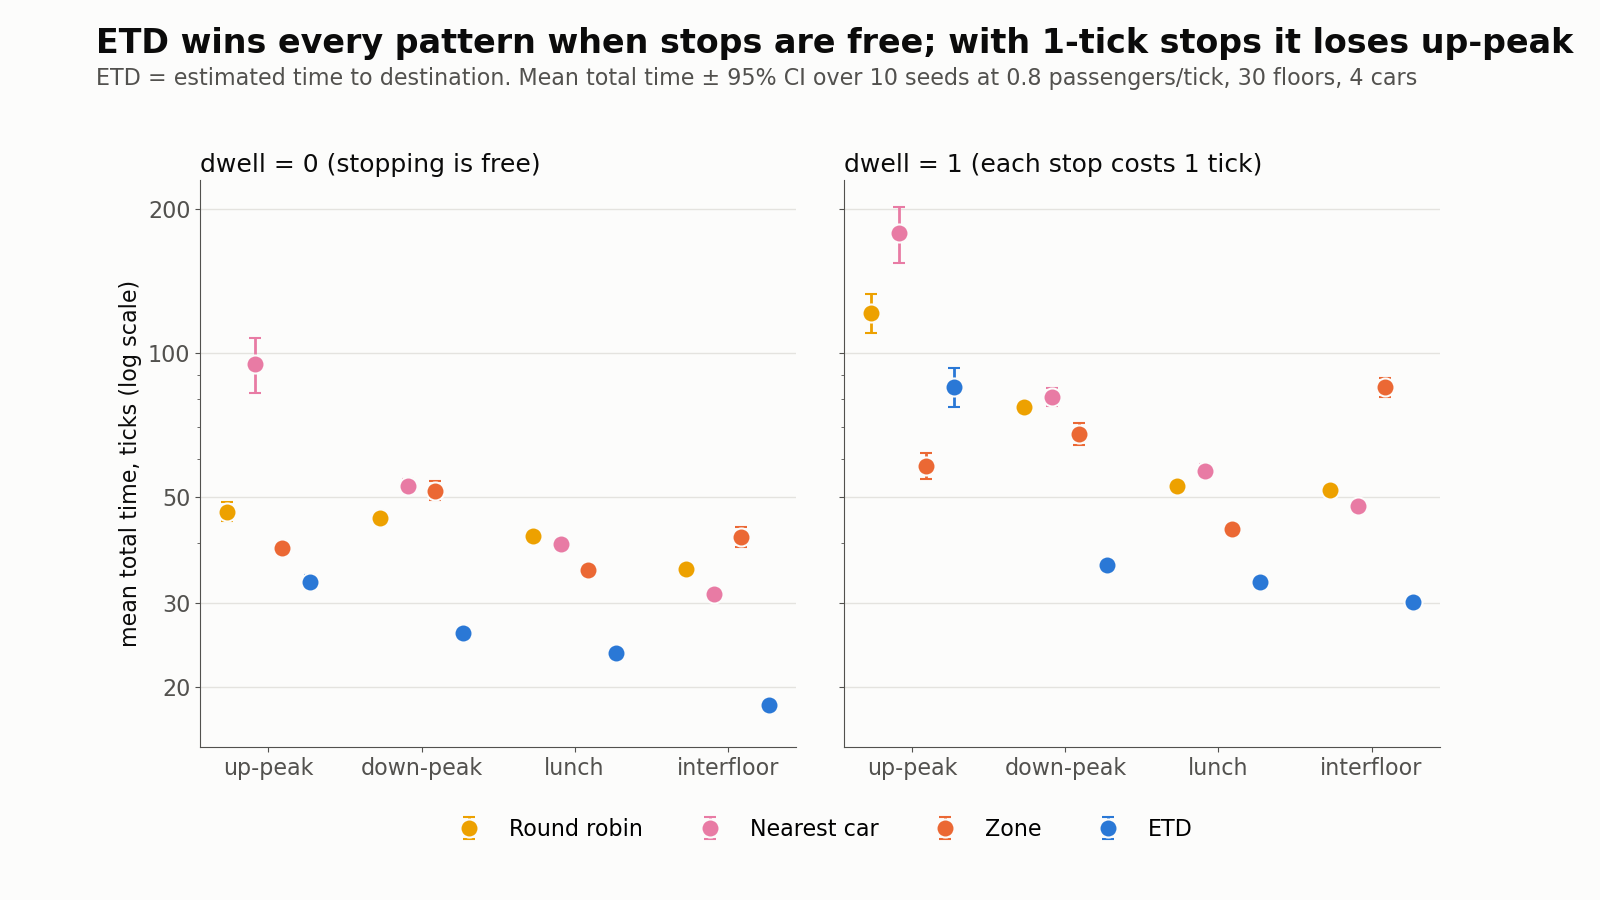
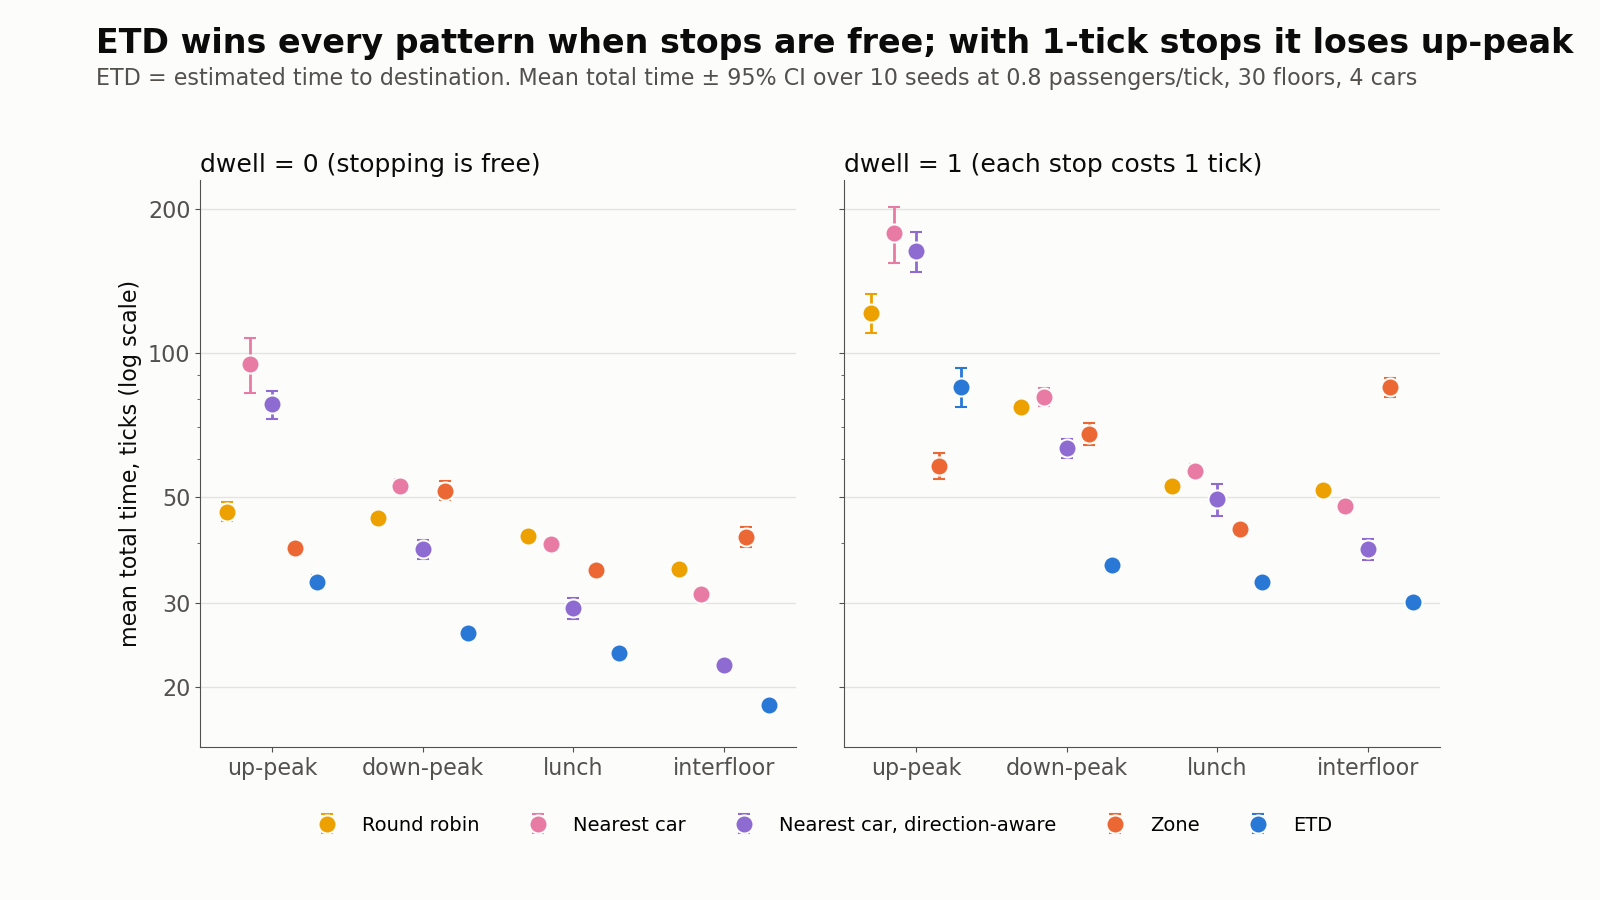
Add a direction-aware nearest-car baseline

diff --git a/elevator_sim/dispatch.py b/elevator_sim/dispatch.py
@@ -9,7 +9,7 @@ from collections.abc import Callable, Sequence
 from dataclasses import replace
 from typing import Protocol
 
-from .models import LOBBY, Car, Passenger, Request
+from .models import LOBBY, Car, Direction, Passenger, Request
 from .rules import forecast
 
 Cost = Callable[[int], float]  # a passenger's total time -> penalty
@@ -42,6 +42,27 @@ class NearestCarDispatcher:
 
     def assign(self, request: Request, cars: Sequence[Car], now: int) -> int:
         return min(cars, key=lambda c: (abs(c.floor - request.source), c.id)).id
+
+
+class DirectionalDispatcher:
+    """Baseline: nearest car counting its direction, as classic collective control does.
+
+    A car already heading past the pickup, the right way, is as far as the
+    floors between them. Otherwise it must first finish its sweep: travel to
+    its farthest stop in its current direction, then come back.
+    """
+
+    def assign(self, request: Request, cars: Sequence[Car], now: int) -> int:
+        return min(cars, key=lambda c: (self.distance(c, request), c.id)).id
+
+    @staticmethod
+    def distance(car: Car, request: Request) -> int:
+        ahead = (request.source - car.floor) * car.direction >= 0
+        if car.direction is Direction.IDLE or (ahead and request.direction == car.direction):
+            return abs(request.source - car.floor)
+        stops = [p.dest for p in car.riders] + [p.source for p in car.waiting]
+        turn = max(stops, key=lambda f: (f - car.floor) * car.direction, default=car.floor)
+        return abs(turn - car.floor) + abs(turn - request.source)
 
 
 class ZoneDispatcher:
@@ -88,10 +109,10 @@ class EtdDispatcher:
 
 
 def make_dispatcher(name: str, floors: int) -> Dispatcher:
-    """'etd', 'nearest', 'zone', 'round-robin', or 'etd-p<k>' (ETD with cost total_time**k)."""
+    """'etd', 'nearest', 'directional', 'zone', 'round-robin', or 'etd-p<k>' (ETD with cost total_time**k)."""
     if name.startswith("etd-p"):
         return EtdDispatcher(power_cost(float(name.removeprefix("etd-p"))))
-    makers = {"etd": EtdDispatcher, "nearest": NearestCarDispatcher,
+    makers = {"etd": EtdDispatcher, "nearest": NearestCarDispatcher, "directional": DirectionalDispatcher,
               "zone": lambda: ZoneDispatcher(floors), "round-robin": RoundRobinDispatcher}
     if name not in makers:
         raise ValueError(f"unknown dispatcher {name!r}; choose from {list(makers)} or etd-p<k>")

diff --git a/tests/test_dispatch.py b/tests/test_dispatch.py
@@ -6,11 +6,12 @@ import pytest
 
 from elevator_sim import Car, Config, Direction, Passenger, Request, Simulation
 from elevator_sim.csv_io import load_requests
-from elevator_sim.dispatch import EtdDispatcher, NearestCarDispatcher, RoundRobinDispatcher, make_dispatcher
+from elevator_sim.dispatch import (DirectionalDispatcher, EtdDispatcher, NearestCarDispatcher, RoundRobinDispatcher,
+                                   make_dispatcher)
 from helpers import random_requests
 
 FLOORS = 20
-DISPATCHERS = ("round-robin", "nearest", "zone", "etd", "etd-p1")
+DISPATCHERS = ("round-robin", "nearest", "directional", "zone", "etd", "etd-p1")
 
 
 def run(requests, dispatcher, floors=FLOORS, cars=3, capacity=6):
@@ -44,6 +45,24 @@ def test_etd_prefers_far_empty_car_over_near_busy_one():
     request = Request(10, "new", 3, 1)
     assert NearestCarDispatcher().assign(request, [busy, empty], now=10) == 0
     assert EtdDispatcher().assign(request, [busy, empty], now=10) == 1
+
+
+def test_directional_skips_a_car_heading_away():
+    # Caller at floor 3 going down. Car 0 is at floor 5 but carrying riders up to 30,
+    # so it must reach 30 first: 25 + 27 = 52 floors. Car 1 is idle 17 floors away.
+    riders = [Passenger(Request(0, "r", 1, 30), car_id=0, board_time=0)]
+    busy = Car(0, capacity=8, floor=5, direction=Direction.UP, riders=riders)
+    idle = Car(1, capacity=8, floor=20)
+    request = Request(10, "new", 3, 1)
+    assert DirectionalDispatcher.distance(busy, request) == 52
+    assert DirectionalDispatcher().assign(request, [busy, idle], now=10) == 1
+
+
+def test_directional_picks_a_car_coming_its_way():
+    coming = Car(0, capacity=8, floor=2, direction=Direction.UP,
+                 riders=[Passenger(Request(0, "r", 1, 20), car_id=0, board_time=0)])
+    request = Request(10, "new", 6, 15)
+    assert DirectionalDispatcher.distance(coming, request) == 4
 
 
 def test_etd_does_not_mutate_cars():

diff --git a/elevator_sim/__main__.py b/elevator_sim/__main__.py
@@ -27,7 +27,7 @@ def main(argv: list[str] | None = None) -> None:
     ap.add_argument("--floors", type=int, required=True)
     ap.add_argument("--cars", type=int, default=3)
     ap.add_argument("--capacity", type=int, default=10)
-    ap.add_argument("--dispatcher", default="etd", help="etd (default), nearest, zone, round-robin, etd-p<k>")
+    ap.add_argument("--dispatcher", default="etd", help="etd (default), nearest, directional, zone, round-robin, etd-p<k>")
     ap.add_argument("--dwell", type=int, default=0, help="extra ticks per stop (default 0)")
     ap.add_argument("--express", type=parse_express, default={}, metavar="CARS:FLOORS",
                     help="e.g. 2,3:1,16-30 = cars 2 and 3 stop only at floor 1 and floors 16-30")

diff --git a/elevator_sim/benchmark.py b/elevator_sim/benchmark.py
@@ -39,7 +39,7 @@ class Experiment:
 
 BASE = {
     "algorithms": Experiment("Which dispatcher works best?",
-                             {"standard": STANDARD}, ("round-robin", "nearest", "zone", "etd")),
+                             {"standard": STANDARD}, ("round-robin", "nearest", "directional", "zone", "etd")),
     "fairness": Experiment("How does ETD's cost exponent trade average time against the worst case?",
                            {"standard": STANDARD}, ("etd-p1", "etd-p2", "etd-p4"), rates=(0.8,)),
     "express": Experiment("Do express cars (2 of 4 serve only the lobby and floors 16-30) help?",

diff --git a/results/algorithms_dwell1.md b/results/algorithms_dwell1.md
@@ -8,33 +8,41 @@ Which dispatcher works best?
 |---|---|---|---|---|---|---|---|---|---|---|
 | standard | up-peak | 0.4 | round-robin | 27.2 | 44.6 | ±0.6 | 77.6 | 93.8 | 1.5 | 3.08 |
 | standard | up-peak | 0.4 | nearest | 32.4 | 50.7 | ±2.7 | 107.9 | 171.6 | 9.6 | 3.51 |
+| standard | up-peak | 0.4 | directional | 16.7 | 35.3 | ±1.5 | 84.4 | 117.6 | 2.8 | 2.44 |
 | standard | up-peak | 0.4 | zone | 20.0 | 36.6 | ±0.7 | 76.8 | 95.4 | 1.2 | 2.53 |
 | standard | up-peak | 0.4 | etd | 12.1 | 30.2 | ±0.6 | 51.8 | 63.7 | 1.6 | 2.09 |
 | standard | up-peak | 0.8 | round-robin | 102.3 | 121.3 | ±11.5 | 230.9 | 285.4 | 99.9 | 8.44 |
 | standard | up-peak | 0.8 | nearest | 158.9 | 177.9 | ±23.8 | 494.8 | 604.1 | 151.6 | 12.38 |
+| standard | up-peak | 0.8 | directional | 144.3 | 163.3 | ±16.0 | 477.9 | 640.1 | 154.8 | 11.35 |
 | standard | up-peak | 0.8 | zone | 40.7 | 58.1 | ±3.5 | 157.9 | 224.5 | 14.7 | 4.03 |
 | standard | up-peak | 0.8 | etd | 66.1 | 84.9 | ±7.9 | 150.4 | 180.2 | 67.1 | 5.91 |
 | standard | down-peak | 0.4 | round-robin | 27.1 | 44.5 | ±0.4 | 79.0 | 95.5 | 0.7 | 3.08 |
 | standard | down-peak | 0.4 | nearest | 31.9 | 49.7 | ±3.2 | 118.0 | 232.9 | -0.5 | 3.44 |
+| standard | down-peak | 0.4 | directional | 14.5 | 32.0 | ±0.7 | 63.8 | 107.3 | 0.1 | 2.21 |
 | standard | down-peak | 0.4 | zone | 20.8 | 37.6 | ±0.5 | 78.2 | 100.1 | 1.5 | 2.60 |
 | standard | down-peak | 0.4 | etd | 12.8 | 29.7 | ±0.4 | 59.8 | 77.1 | 1.7 | 2.05 |
 | standard | down-peak | 0.8 | round-robin | 58.7 | 77.1 | ±1.9 | 174.2 | 281.7 | 15.5 | 5.36 |
 | standard | down-peak | 0.8 | nearest | 62.6 | 80.9 | ±3.5 | 214.1 | 355.5 | 3.7 | 5.62 |
+| standard | down-peak | 0.8 | directional | 44.9 | 63.2 | ±2.9 | 169.5 | 278.7 | 11.9 | 4.39 |
 | standard | down-peak | 0.8 | zone | 50.6 | 67.8 | ±3.7 | 223.2 | 361.9 | 19.4 | 4.70 |
 | standard | down-peak | 0.8 | etd | 18.1 | 36.0 | ±1.0 | 67.9 | 99.9 | -0.1 | 2.50 |
 | standard | lunch | 0.4 | round-robin | 28.0 | 44.8 | ±0.6 | 77.9 | 95.3 | -0.3 | 3.07 |
 | standard | lunch | 0.4 | nearest | 23.0 | 40.2 | ±1.0 | 84.4 | 104.0 | -0.2 | 2.76 |
+| standard | lunch | 0.4 | directional | 10.7 | 27.9 | ±0.7 | 56.5 | 88.6 | -0.1 | 1.91 |
 | standard | lunch | 0.4 | zone | 20.2 | 36.7 | ±0.4 | 76.5 | 94.9 | 0.4 | 2.52 |
 | standard | lunch | 0.4 | etd | 9.5 | 26.3 | ±0.6 | 47.7 | 68.3 | -0.4 | 1.80 |
 | standard | lunch | 0.8 | round-robin | 34.2 | 52.7 | ±0.6 | 90.6 | 129.4 | 0.4 | 3.61 |
 | standard | lunch | 0.8 | nearest | 37.9 | 56.7 | ±1.9 | 114.6 | 261.4 | -0.8 | 3.88 |
+| standard | lunch | 0.8 | directional | 30.6 | 49.5 | ±3.8 | 119.0 | 225.0 | -1.6 | 3.39 |
 | standard | lunch | 0.8 | zone | 25.5 | 42.9 | ±0.7 | 83.5 | 158.4 | 0.9 | 2.93 |
 | standard | lunch | 0.8 | etd | 14.9 | 33.2 | ±0.6 | 59.1 | 87.0 | 0.5 | 2.27 |
 | standard | interfloor | 0.4 | round-robin | 28.3 | 40.8 | ±0.8 | 73.2 | 91.6 | 0.8 | 4.07 |
 | standard | interfloor | 0.4 | nearest | 23.6 | 36.5 | ±0.7 | 80.4 | 104.0 | 1.2 | 3.65 |
+| standard | interfloor | 0.4 | directional | 12.5 | 25.3 | ±0.6 | 56.5 | 89.2 | -0.8 | 2.52 |
 | standard | interfloor | 0.4 | zone | 25.8 | 39.1 | ±1.2 | 73.8 | 110.0 | 1.3 | 3.90 |
 | standard | interfloor | 0.4 | etd | 11.3 | 23.7 | ±0.8 | 45.1 | 64.0 | -0.1 | 2.36 |
 | standard | interfloor | 0.8 | round-robin | 37.1 | 51.7 | ±0.7 | 91.6 | 114.3 | 1.8 | 5.15 |
 | standard | interfloor | 0.8 | nearest | 33.0 | 48.0 | ±1.0 | 101.8 | 180.7 | -0.4 | 4.78 |
+| standard | interfloor | 0.8 | directional | 23.8 | 38.9 | ±2.0 | 82.6 | 164.4 | 2.2 | 3.87 |
 | standard | interfloor | 0.8 | zone | 70.0 | 84.7 | ±3.8 | 248.3 | 402.7 | 36.1 | 8.44 |
 | standard | interfloor | 0.8 | etd | 16.0 | 30.1 | ±0.8 | 56.2 | 91.3 | 1.5 | 2.99 |

diff --git a/results/algorithms_dwell0.md b/results/algorithms_dwell0.md
@@ -8,33 +8,41 @@ Which dispatcher works best?
 |---|---|---|---|---|---|---|---|---|---|---|
 | standard | up-peak | 0.4 | round-robin | 24.3 | 38.7 | ±0.4 | 67.9 | 82.7 | 1.7 | 2.68 |
 | standard | up-peak | 0.4 | nearest | 25.7 | 40.2 | ±1.4 | 78.7 | 115.2 | 4.2 | 2.78 |
+| standard | up-peak | 0.4 | directional | 14.2 | 28.6 | ±0.9 | 61.0 | 92.2 | 2.2 | 1.98 |
 | standard | up-peak | 0.4 | zone | 18.0 | 32.5 | ±0.5 | 69.1 | 84.9 | 1.2 | 2.25 |
 | standard | up-peak | 0.4 | etd | 11.6 | 26.1 | ±0.5 | 45.5 | 56.0 | 1.2 | 1.80 |
 | standard | up-peak | 0.8 | round-robin | 32.2 | 46.6 | ±2.1 | 82.8 | 123.3 | 4.6 | 3.24 |
 | standard | up-peak | 0.8 | nearest | 80.5 | 94.9 | ±12.6 | 257.2 | 340.4 | 48.3 | 6.61 |
+| standard | up-peak | 0.8 | directional | 63.6 | 78.0 | ±5.3 | 212.8 | 289.9 | 44.0 | 5.42 |
 | standard | up-peak | 0.8 | zone | 24.6 | 39.0 | ±1.0 | 86.6 | 134.7 | 1.6 | 2.71 |
 | standard | up-peak | 0.8 | etd | 18.9 | 33.3 | ±1.0 | 54.7 | 71.2 | 2.9 | 2.31 |
 | standard | down-peak | 0.4 | round-robin | 23.8 | 38.3 | ±0.5 | 67.9 | 81.2 | -0.7 | 2.65 |
 | standard | down-peak | 0.4 | nearest | 23.8 | 38.2 | ±1.3 | 82.8 | 149.9 | -0.1 | 2.64 |
+| standard | down-peak | 0.4 | directional | 12.6 | 27.0 | ±0.5 | 55.4 | 74.7 | 0.3 | 1.87 |
 | standard | down-peak | 0.4 | zone | 18.4 | 32.9 | ±0.5 | 70.2 | 89.6 | 1.8 | 2.27 |
 | standard | down-peak | 0.4 | etd | 9.8 | 24.3 | ±0.5 | 51.9 | 65.7 | -0.2 | 1.68 |
 | standard | down-peak | 0.8 | round-robin | 30.8 | 45.2 | ±0.6 | 85.0 | 145.6 | 1.1 | 3.14 |
 | standard | down-peak | 0.8 | nearest | 38.4 | 52.8 | ±1.6 | 139.6 | 257.3 | -3.9 | 3.67 |
+| standard | down-peak | 0.8 | directional | 24.5 | 38.9 | ±1.9 | 101.1 | 192.3 | -2.2 | 2.70 |
 | standard | down-peak | 0.8 | zone | 37.1 | 51.5 | ±2.4 | 181.1 | 306.8 | 12.8 | 3.57 |
 | standard | down-peak | 0.8 | etd | 11.6 | 26.0 | ±0.5 | 52.1 | 77.5 | 0.4 | 1.80 |
 | standard | lunch | 0.4 | round-robin | 24.4 | 39.0 | ±0.7 | 68.8 | 82.6 | 0.0 | 2.67 |
 | standard | lunch | 0.4 | nearest | 20.0 | 34.6 | ±0.9 | 72.9 | 84.8 | -0.4 | 2.37 |
+| standard | lunch | 0.4 | directional | 8.8 | 23.4 | ±0.3 | 47.5 | 79.5 | 0.3 | 1.61 |
 | standard | lunch | 0.4 | zone | 18.0 | 32.6 | ±0.5 | 69.5 | 83.1 | 0.5 | 2.24 |
 | standard | lunch | 0.4 | etd | 6.9 | 21.5 | ±0.2 | 39.7 | 56.8 | -0.3 | 1.48 |
 | standard | lunch | 0.8 | round-robin | 26.9 | 41.5 | ±0.2 | 71.4 | 85.9 | 0.5 | 2.84 |
 | standard | lunch | 0.8 | nearest | 25.2 | 39.9 | ±0.7 | 77.4 | 126.8 | -1.2 | 2.73 |
+| standard | lunch | 0.8 | directional | 14.6 | 29.2 | ±1.5 | 66.2 | 130.1 | -0.8 | 2.00 |
 | standard | lunch | 0.8 | zone | 20.6 | 35.2 | ±0.6 | 71.6 | 102.9 | 0.2 | 2.41 |
 | standard | lunch | 0.8 | etd | 9.0 | 23.6 | ±0.6 | 43.4 | 63.7 | -0.5 | 1.62 |
 | standard | interfloor | 0.4 | round-robin | 22.5 | 32.5 | ±0.7 | 58.8 | 73.4 | 0.9 | 3.25 |
 | standard | interfloor | 0.4 | nearest | 17.1 | 27.1 | ±0.8 | 60.8 | 77.0 | -0.8 | 2.70 |
+| standard | interfloor | 0.4 | directional | 9.3 | 19.3 | ±0.6 | 43.9 | 68.7 | -0.5 | 1.93 |
 | standard | interfloor | 0.4 | zone | 20.3 | 30.3 | ±0.9 | 57.5 | 79.3 | -0.7 | 3.02 |
 | standard | interfloor | 0.4 | etd | 7.0 | 17.0 | ±0.4 | 33.6 | 50.5 | -0.2 | 1.70 |
 | standard | interfloor | 0.8 | round-robin | 25.3 | 35.4 | ±0.3 | 62.3 | 77.3 | 0.5 | 3.52 |
 | standard | interfloor | 0.8 | nearest | 21.2 | 31.3 | ±0.6 | 65.8 | 83.4 | -0.1 | 3.11 |
+| standard | interfloor | 0.8 | directional | 12.3 | 22.3 | ±0.5 | 50.5 | 75.3 | -0.2 | 2.22 |
 | standard | interfloor | 0.8 | zone | 31.2 | 41.3 | ±2.0 | 99.0 | 203.7 | 6.2 | 4.11 |
 | standard | interfloor | 0.8 | etd | 8.3 | 18.4 | ±0.3 | 35.7 | 54.8 | 0.5 | 1.83 |
